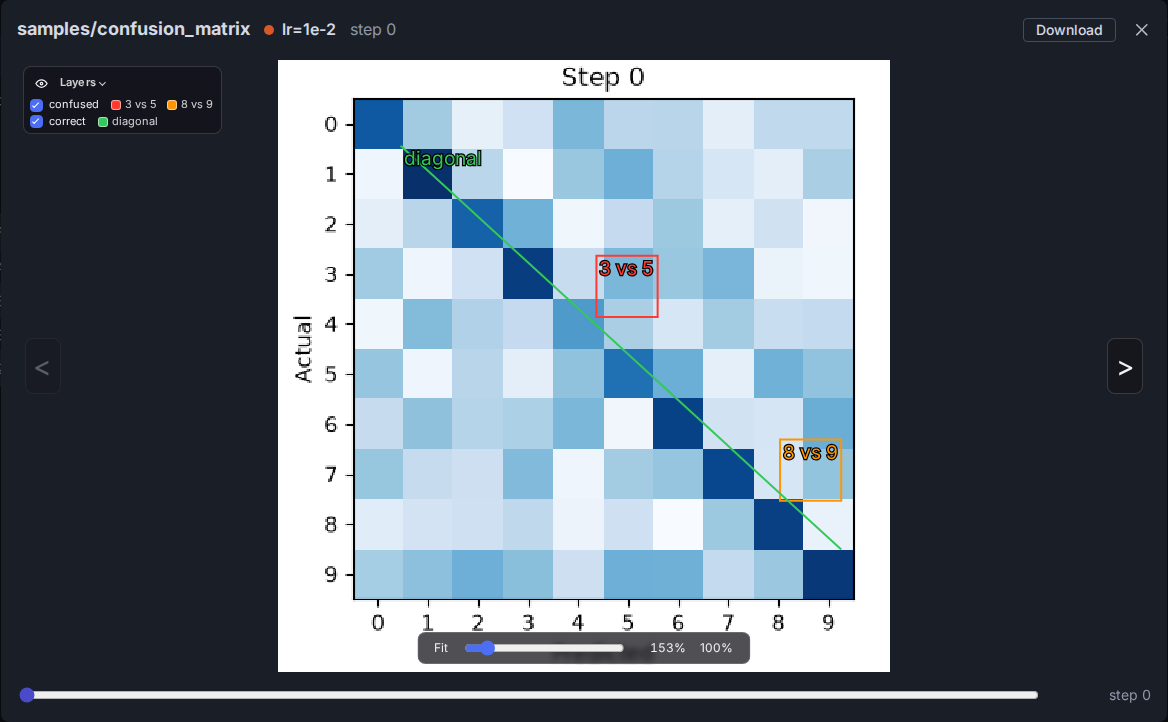
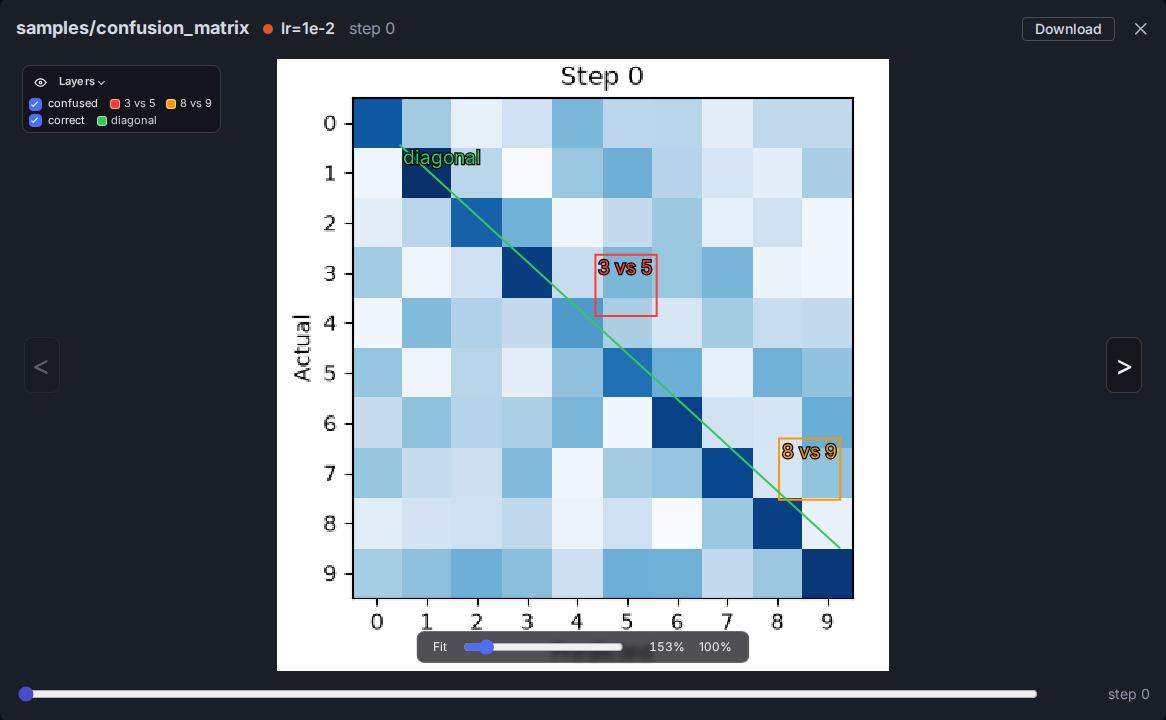
Photograph a docs dialog within the pixels it covers entirely
A dialog's edge falls between pixels, and the column it only partly covers shows
the blurred page behind it through, whatever that page was drawing: the run-compare
and image-viewer shots each failed once on 7 to 13 pixels of their right-most column.

diff --git a/dlboard/tests/docs_screenshots_test.py b/dlboard/tests/docs_screenshots_test.py
@@ -113,6 +113,10 @@ class DocScreenshot(StrEnum):
         return IMAGES_DIR / f"{self.value}.png"
 
 
+_DIALOG_SHOTS = frozenset({DocScreenshot.RUN_COMPARE, DocScreenshot.IMAGE_VIEWER})
+"""The shots of a modal's dialog (`_stage` returns it), photographed within its whole pixels."""
+
+
 class _Sweep(NamedTuple):
     name: str
     lr: float
@@ -504,16 +508,31 @@ def _stage(shot: DocScreenshot, page: Page, demo: Demo, dlboard_app: Dash) -> Pa
             return dialog
 
 
-def _stable_screenshot(target: Page | Locator) -> bytes:
+def _stable_screenshot(target: Page | Locator, *, whole_pixels_inside: bool = False) -> bytes:
     """
     Photograph `target` until two consecutive captures are byte-identical.
 
     Chart animations and live-update re-renders are JavaScript, so `animations="disabled"` can't
     stop them; waiting for a fixed point does.
+
+    A dialog's edge falls between pixels, and the column it only partly covers shows through to the blurred page behind
+    it, whatever that page is drawing: `whole_pixels_inside` photographs only the pixels the dialog covers entirely.
     """
     previous: bytes | None = None
     for _ in range(_STABLE_ATTEMPTS):
-        current = target.screenshot(animations="disabled", caret="hide")
+        if whole_pixels_inside:
+            box = cast("Locator", target).bounding_box()
+            assert box is not None
+            left, top = math.ceil(box["x"]), math.ceil(box["y"])
+            clip = {
+                "x": left,
+                "y": top,
+                "width": math.floor(box["x"] + box["width"]) - left,
+                "height": math.floor(box["y"] + box["height"]) - top,
+            }
+            current = cast("Locator", target).page.screenshot(clip=clip, animations="disabled", caret="hide")
+        else:
+            current = target.screenshot(animations="disabled", caret="hide")
         if current == previous:
             return current
         previous = current
@@ -566,7 +585,7 @@ def test_doc_screenshot(  # noqa: PLR0913 -- one fixture per thing the render ne
     )
     target = _stage(shot, page, demo, dlboard_app)
     page.evaluate("document.fonts.ready")  # a late-swapping web font would otherwise reflow mid-capture
-    png = _stable_screenshot(target)
+    png = _stable_screenshot(target, whole_pixels_inside=shot in _DIALOG_SHOTS)
     assert console_errors == []
     match screenshot_mode:
         case ScreenshotMode.UPDATE:
